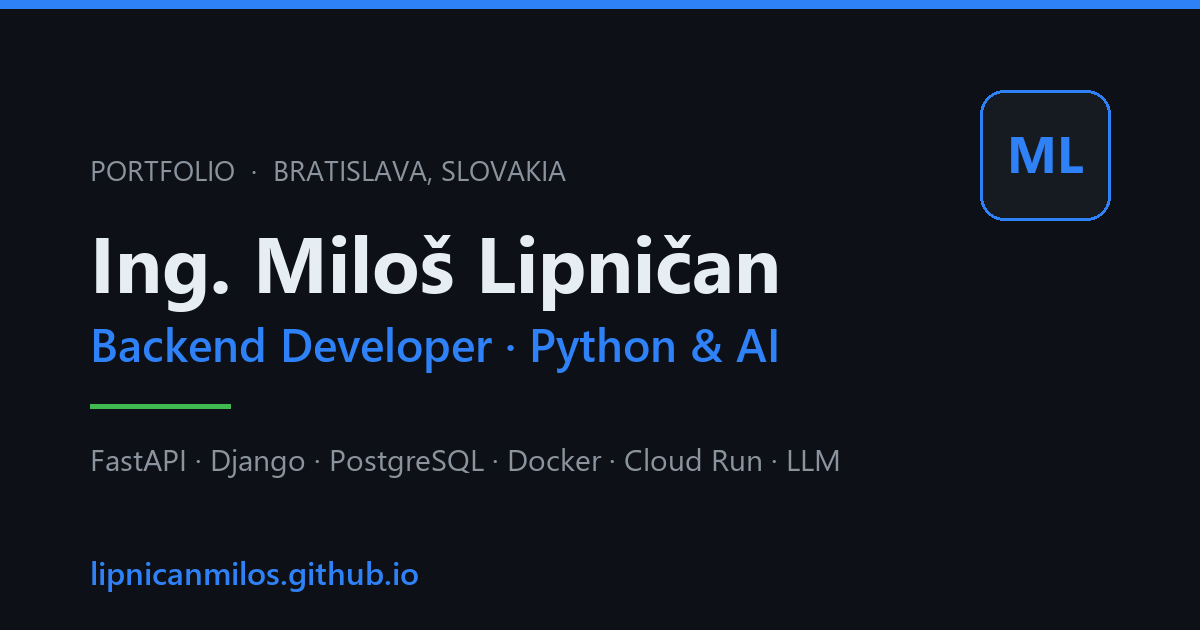
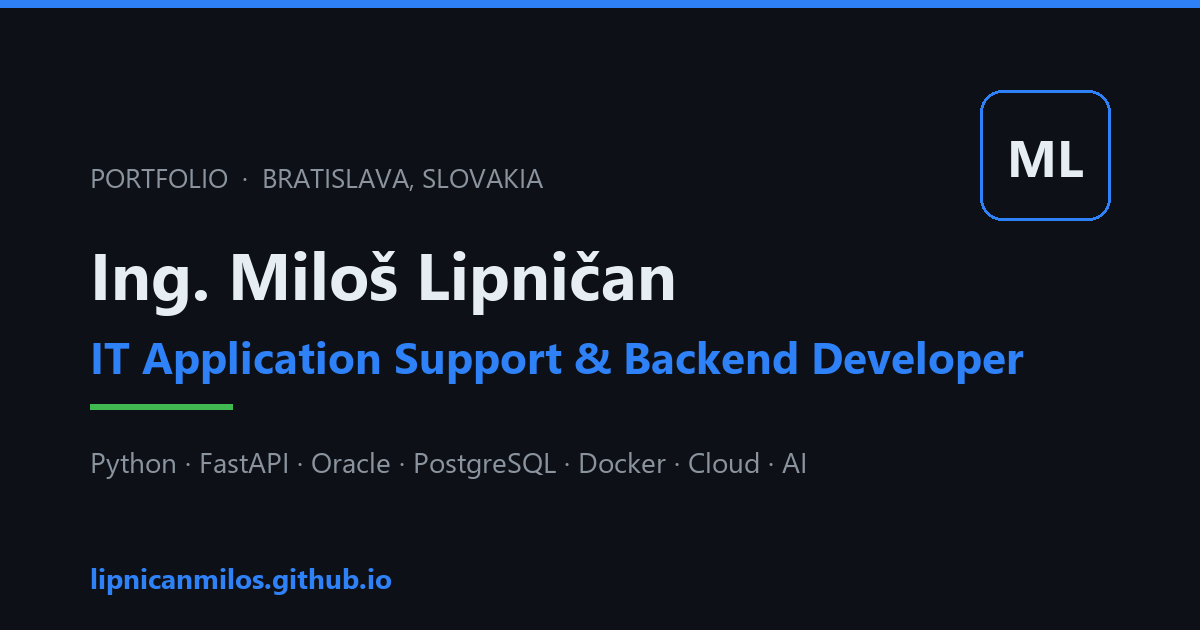
Novy og-image s aktualnym titulom + generujuci skript
- og-image.png pregenerovany: "IT Application Support & Backend Developer",
  stack Python/FastAPI/Oracle/PostgreSQL/Docker/Cloud/AI
- og:image:alt zosuladeny s novym obrazkom
- tools/make_og_image.py na buduce pregenerovanie (Pillow + Segoe UI)

diff --git a/index.html b/index.html
@@ -20,7 +20,7 @@
 <meta property="og:image" content="https://lipnicanmilos.github.io/og-image.png">
 <meta property="og:image:width" content="1200">
 <meta property="og:image:height" content="630">
-<meta property="og:image:alt" content="Ing. Miloš Lipničan — Backend Developer (Python & AI)">
+<meta property="og:image:alt" content="Ing. Miloš Lipničan — IT Application Support & Backend Developer">
 <meta property="og:locale" content="sk_SK">
 <meta property="og:locale:alternate" content="en_US">
 <meta property="og:locale:alternate" content="de_DE">

diff --git a/tools/make_og_image.py b/tools/make_og_image.py
@@ -1,0 +1,65 @@
+# -*- coding: utf-8 -*-
+"""Pregeneruje og-image.png (1200x630) v styl stranky lipnicanmilos.github.io."""
+from PIL import Image, ImageDraw, ImageFont
+
+W, H = 1200, 630
+BG      = (13, 17, 23)
+BLUE    = (47, 129, 247)
+GREEN   = (63, 185, 80)
+WHITE   = (230, 237, 243)
+DIM     = (139, 148, 158)
+
+BOLD = "C:/Windows/Fonts/segoeuib.ttf"
+REG  = "C:/Windows/Fonts/segoeui.ttf"
+
+def f(path, size):
+    return ImageFont.truetype(path, size)
+
+def width(d, txt, font):
+    return d.textbbox((0, 0), txt, font=font)[2]
+
+im = Image.new("RGB", (W, H), BG)
+d = ImageDraw.Draw(im)
+
+# horny modry pruh
+d.rectangle([0, 0, W, 7], fill=BLUE)
+
+LEFT = 90
+
+# eyebrow
+d.text((LEFT, 158), "PORTFOLIO  ·  BRATISLAVA, SLOVAKIA", font=f(REG, 27), fill=DIM)
+
+# meno
+d.text((LEFT, 228), "Ing. Miloš Lipničan", font=f(BOLD, 66), fill=WHITE)
+
+# titul — zmensi, kym sa nezmesti do sirky
+title = "IT Application Support & Backend Developer"
+size = 44
+while size > 26:
+    ft = f(BOLD, size)
+    if width(d, title, ft) <= W - LEFT - 70:
+        break
+    size -= 1
+d.text((LEFT, 326), title, font=ft, fill=BLUE)
+
+# zelena linka
+rule_y = 404
+d.rectangle([LEFT, rule_y, LEFT + 142, rule_y + 5], fill=GREEN)
+
+# stack
+d.text((LEFT, 442), "Python · FastAPI · Oracle · PostgreSQL · Docker · Cloud · AI",
+       font=f(REG, 28), fill=DIM)
+
+# url
+d.text((LEFT, 558), "lipnicanmilos.github.io", font=f(BOLD, 28), fill=BLUE)
+
+# ML badge vpravo hore
+bx0, by0, bx1, by1 = 980, 90, 1110, 220
+d.rounded_rectangle([bx0, by0, bx1, by1], radius=22, outline=BLUE, width=3)
+bf = f(BOLD, 52)
+bb = d.textbbox((0, 0), "ML", font=bf)
+d.text((bx0 + (bx1 - bx0 - bb[2]) / 2, by0 + (by1 - by0 - bb[3]) / 2 - 6), "ML", font=bf, fill=WHITE)
+
+out = "C:/Users/mlipnican/lipnicanmilos.github.io/og-image.png"
+im.save(out, optimize=True)
+print("saved", out, im.size, "title size", size)
